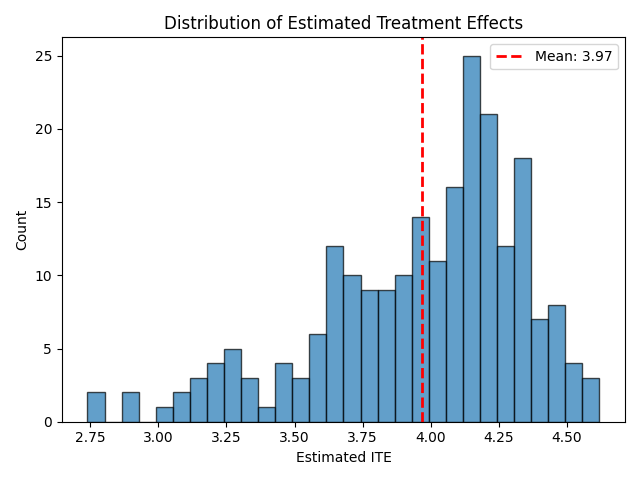
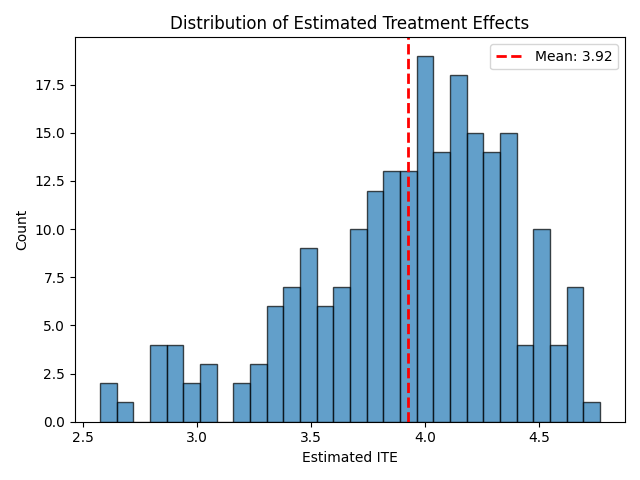
changed final model training dataset

diff --git a/main.py b/main.py
@@ -114,19 +114,29 @@ def main():
     print("\n--- Validation Model Comparison (sorted by PEHE) ---")
     print(comparison_df.to_string(index=False))
     
-    # Select the best model on validation, then retrain it on train
+    # Select the best model on validation, then refit it on train + validation.
     best_model_name = comparison_df.iloc[0]["Model"]
     print(f"\nSelected Model: {best_model_name} (lowest validation PEHE)")
+
+    X_final_train = pd.concat([X_train, X_validation])
+    T_final_train = pd.concat([T_train, T_validation])
+    Y_final_train = pd.concat([Y_train, Y_validation])
+
+    X_final_train_processed, X_test_processed, _ = preprocess_data(
+        X_train=X_final_train,
+        X_test=X_test,
+        X_validation=X_validation
+    )
 
     true_ate = true_ite_test.mean()
 
     # Baseline ATE estimates on the final held-out test set.
-    naive_ate = get_naive_ate(Y_train, T_train)
+    naive_ate = get_naive_ate(Y_final_train, T_final_train)
     ra_ate = regression_adjustment_ate(
-        X_train_processed,
+        X_final_train_processed,
         X_test_processed,
-        T_train,
-        Y_train,
+        T_final_train,
+        Y_final_train,
         T_test
     )
 
@@ -137,7 +147,7 @@ def main():
     print(f"Regression Adjustment ATE: {ra_ate:.4f}")
 
     best_model = get_model(best_model_name)
-    best_model = train_model(best_model, X_train_processed, T_train, Y_train)
+    best_model = train_model(best_model, X_final_train_processed, T_final_train, Y_final_train)
     dml_ate = best_model.ate(X_test_processed)
     dml_ite = best_model.effect(X_test_processed) 
     print(

diff --git a/README.md b/README.md
@@ -41,7 +41,7 @@ That makes metrics such as PEHE possible. In real production causal inference se
 
 The pipeline first holds out a test set using `TEST_SIZE` from `src/config.py`. The remaining data is split into train and validation using `VALIDATION_SIZE`.
 
-Candidate models are trained on the training split and compared on the validation split. The final selected model is then evaluated once on the held-out test split.
+Candidate models are trained on the training split and compared on the validation split. After model selection, the selected estimator and baseline models are refit on the combined train + validation data, then evaluated once on the held-out test split.
 
 ### 2. Preprocessing
 
@@ -90,6 +90,19 @@ V(policy) = mean(policy * mu1 + (1 - policy) * mu0)
 ## Current Result Snapshot
 
 The latest generated outputs report validation model selection in `outputs/metrics/model_comparison.csv` and final test performance in `outputs/metrics/model_metrics.csv`.
+
+Example final test metrics:
+
+| Metric | Value |
+| --- | ---: |
+| True ATE | 3.9970 |
+| Naive ATE | 4.1183 |
+| Regression ATE | 3.9558 |
+| DML ATE | 3.9237 |
+| Naive ATE Error | 0.1213 |
+| Regression ATE Error | 0.0412 |
+| DML ATE Error | 0.0733 |
+| DML PEHE | 0.6572 |
 
 
 ## Project Structure
@@ -212,4 +225,3 @@ The IHDP benchmark is semi-synthetic, so these assumptions are more controlled t
 - Hyperparameter tuning is intentionally lightweight.
 - Policy value is computed with known potential outcomes; real deployments would require off-policy evaluation or experiment-based validation.
 - MLflow model logging uses Python object serialization for the wrapped EconML estimator, which is convenient for local experimentation but should be hardened for production model serving.
-
